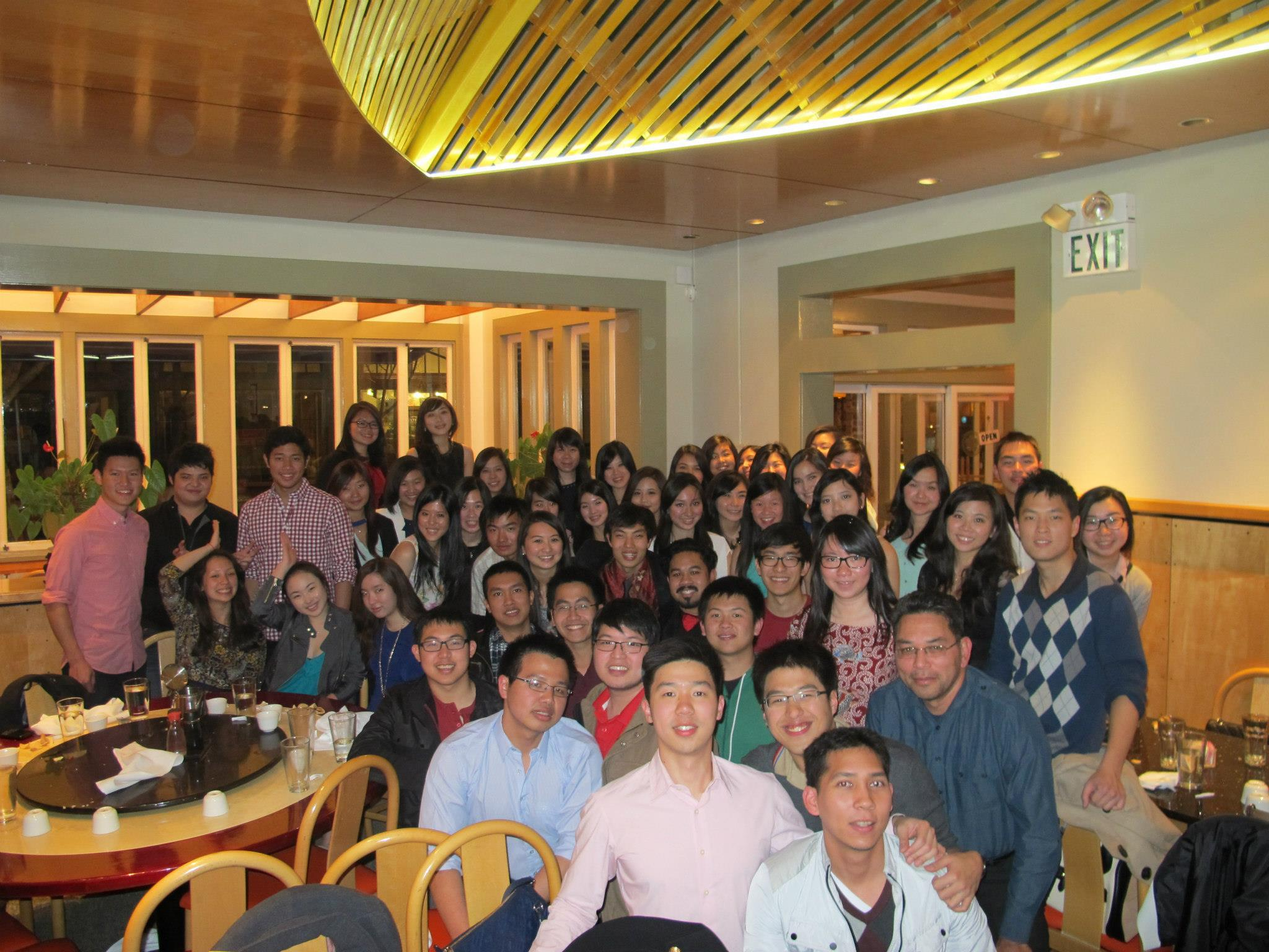
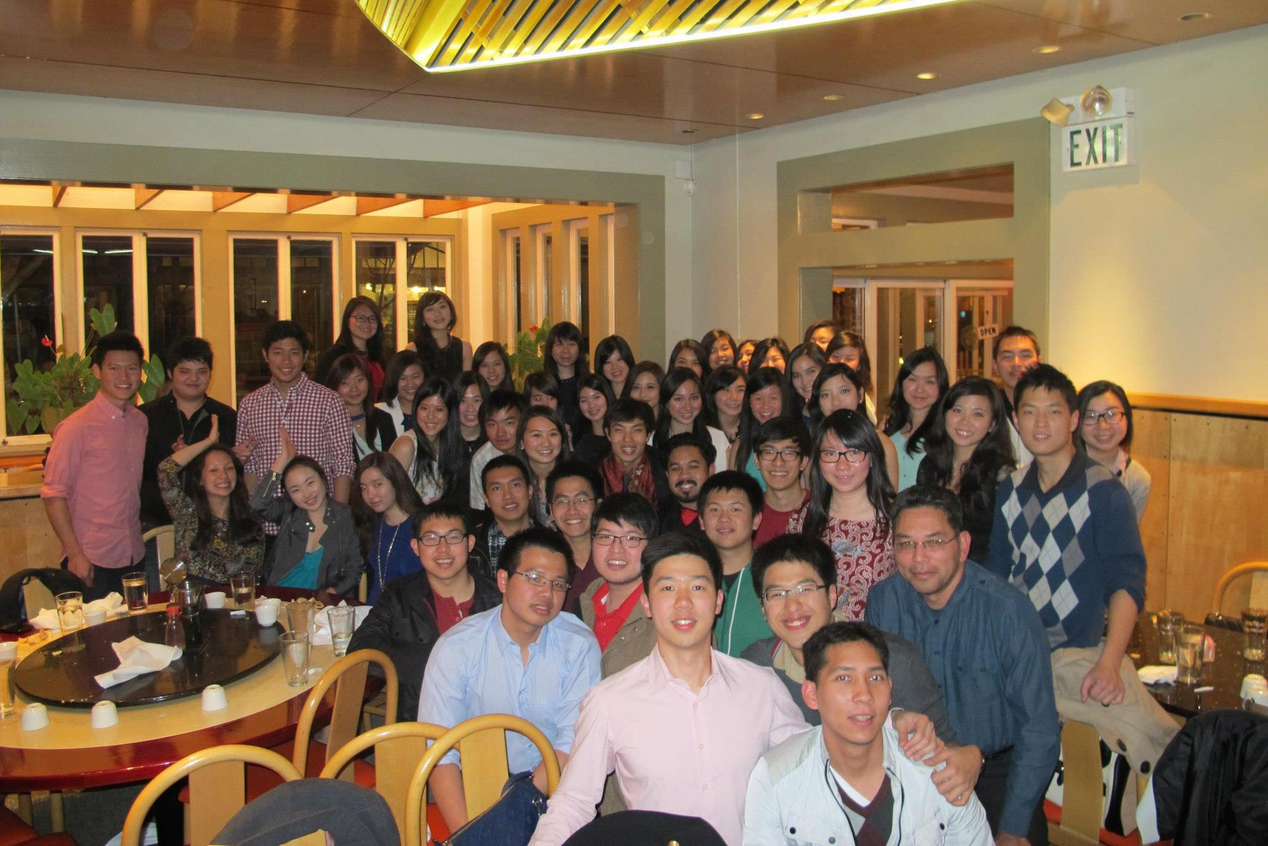
Update
- return back all playimage to original with commented out overflow:
hidden
- added arrow button for playimage
- added arrow button for hovering the officers

diff --git a/index.html b/index.html
@@ -38,7 +38,7 @@
 
     <div id="load-page">
         <div>
-            <img id="bisa-logo" src='resources/img/logo/bisa_logo.png' style="width: 300px; height: 100px;">
+            <img id="load-page-logo" src='resources/img/logo/bisa_logo.png'>
         </div>
     </div>
 
@@ -53,7 +53,7 @@
                     <span class="icon-bar"></span>
                 </button>
                 <a class="navbar-brand page-scroll" href="#page-top">
-                    <img id="bisa-logo" src='resources/img/logo/bisa_logo.png' style='width: 100px; position: relative; top: -5px;'>
+                    <img src='resources/img/logo/bisa_logo.png' style='width: 100px; position: relative; top: -5px;'>
                 </a>
             </div>
 
@@ -86,8 +86,8 @@
     <section id="intro" class="intro-section">
         <div class="container" style="width: 100%; padding: 0;">
             <div class="row" style="margin: 0;">
-                <img class="intro-photo" src="resources/img/bisa_2013.jpg" style="position: relative;">  
-                <div class="arrow-down">
+                <img class="intro-photo" src="resources/img/bisa_2014.jpg" style="position: relative;">  
+                <div class="arrow-down" style="z-index: 1">
                     <span class="glyphicon glyphicon-arrow-down"></span>
                 </div>
             </div>
@@ -194,7 +194,8 @@
                 </div>
                 <div class="col-lg-12" style="padding: 0;">
                     <div id="photoset-frame">
-                        <!-- <span id="infoToHover" class="col-lg-2 col-lg-offset-9 col-md-2 col-md-offset-9 col-sm-3 col-sm-offset-8 col-xs-3 col-xs-offset-8">Hover on the officers!</span> -->
+                        <span id="info-to-hover" class="glyphicon glyphicon-hand-down"></span>
+                        <span id="test" style="position: absolute; top: 0; left: 0; z-index: 9999;">HALLOOOOOOOO</span>
                         <img id="background" src="resources/img/bisa-officer-hover.jpg" style="position: relative; width: 100%; opacity: 1;">
                         <img id="background-bw" src="resources/img/bisa-officer-bw.jpg" style="position: absolute; width: 100%; opacity: 0; top: 0; left: 0;">
                         <img id="richard-photo" class="photo" shift="0" src="resources/img/officer/richard.jpg">

diff --git a/resources/css/bisa.css b/resources/css/bisa.css
@@ -17,11 +17,13 @@ a:hover{
 	z-index: 10000;
 	width: 100%;
 	height: 100%;
-	background-color: rgba(0, 50 ,98, 0.95)
+	background-color: rgba(0, 50 ,98, 0.97)
 }
-#load-page > div {
-	position: relative; 
-	top: 45%;
+#load-page-logo {
+	position: fixed;
+	top: 40%;
+	left: 40%;
+	width: 300px;
 	margin-left: auto;
 	margin-right: auto;
 }
@@ -130,6 +132,27 @@ a:hover{
 	top: 30.6%;
 	left: 83.4%;
 }
+@-webkit-keyframes updown{
+	0% {top: 24%;}
+	50% {top: 26%;}
+	100% {top: 24%;}
+}
+@keyframes updown{
+	0% {top: 24%;}
+	50% {top: 26%;}
+	100% {top: 24%;}
+}
+#info-to-hover {
+	position: absolute;
+	transition: 0s;
+	z-index: 2;
+	font-size: 26px;
+	left: 47%;
+	top: 24%;
+	color: rgb(255,255,255);
+	-webkit-animation: updown 1s infinite;
+}
+
 #photoset-info {
 	position: absolute;
 	top: 15%;

diff --git a/resources/js/playimage.js b/resources/js/playimage.js
@@ -5,6 +5,8 @@ $(document).ready(function(){
 	$('.img-compound').each(function() {
 		var image_lead = $(this).find("img:first");
 
+		$(this).css("height", image_lead.height());
+
 		var counter = 0;
 		var total_image = 0;
 
@@ -37,6 +39,8 @@ $(document).ready(function(){
 				counter = 0;
 			}
 		});
+
+		$(this).append("<span class='glyphicon glyphicon-chevron-right' style='position: absolute; font-size: 26px; right: 5%; top: 5%; color: rgb(255,255,255)'></span>")
 	});
 
 	$('.img-layering').each(function() {

diff --git a/resources/js/bisa.js b/resources/js/bisa.js
@@ -1,6 +1,6 @@
 $(window).load(function() {
 	console.log("BISA.js ready");
-
+		
 	// remove the loading screen when the page is ready
 	$('#load-page').css("opacity", "0");
 	$('#load-page').css("z-index", "-100");
@@ -75,8 +75,5 @@ $(window).load(function() {
 		} else {
 			$('.arrow-down').css("bottom", "0");
 		};
-	});
-
-
-	
+	});	
 });

diff --git a/resources/css/bisa-responsive.css b/resources/css/bisa-responsive.css
@@ -1,6 +1,9 @@
 /* bisa-responsive.css*/
 
 @media (max-width: 767px) {
+	#load-page-logo {
+		left: 0%;
+	}
 	.intro-section {
 		padding-top: 50px;
 		min-height: 100%;

diff --git a/resources/css/playimage.css b/resources/css/playimage.css
@@ -115,6 +115,7 @@
 .img-compound {
 	cursor: pointer;
 	position: relative;
+	/*overflow: hidden*/
 }
 .img-compound > img {
 	vertical-align: top;
